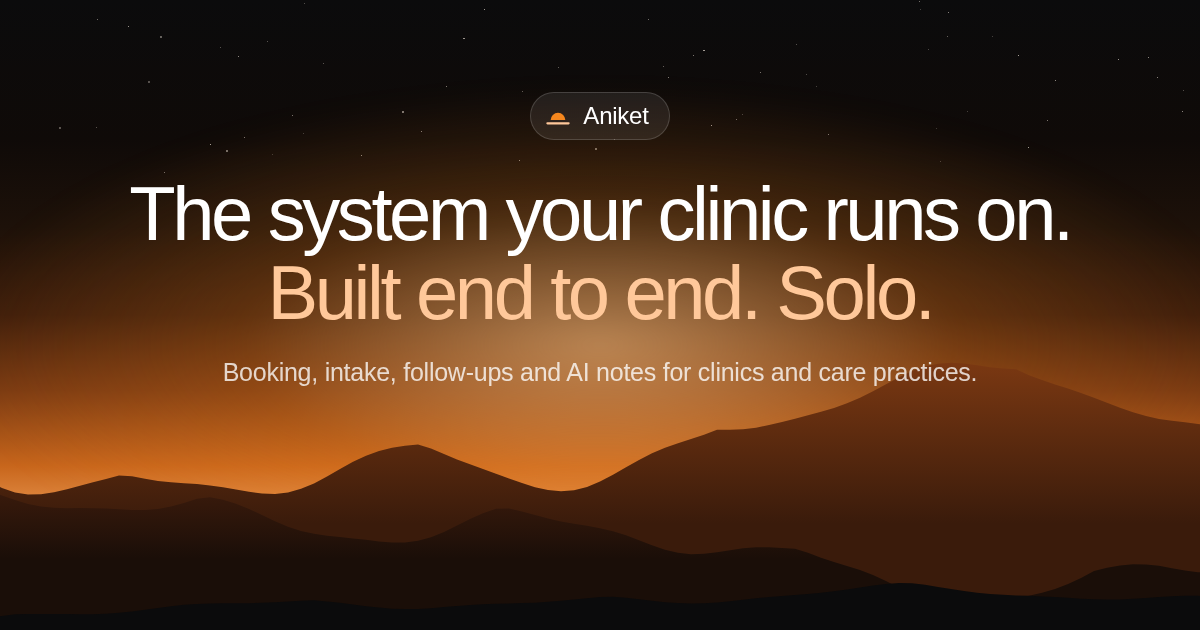
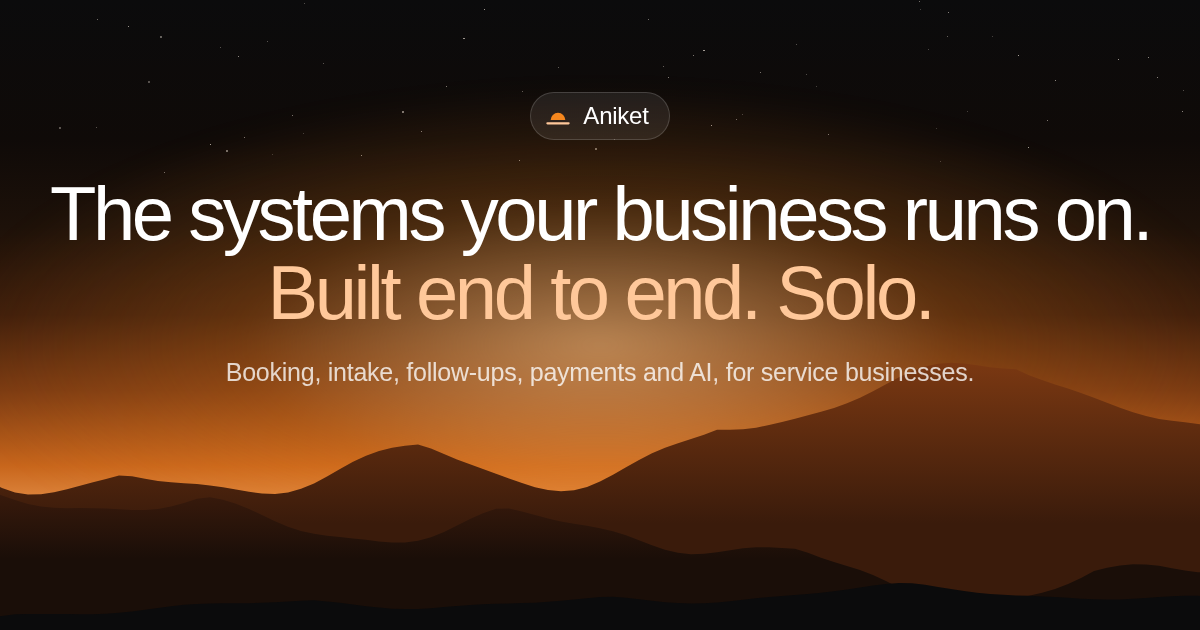
Position for service businesses broadly; clinic system as proof
Hero, subtitle, tagline, meta, OG/Twitter, JSON-LD, contact, about and
case-study CTAs, FAQ and footer now speak to clinics, studios, agencies
and growing teams. The hero proof line names the 11-therapist clinic as
evidence, with its caveat. OG card re-rendered with the new headline.
Also adds Privacy to the footer menu and /privacy to the sitemap.

Changed region(s): [[0.0308, 0.2714, 0.9558, 0.4222], [0.185, 0.573, 0.8325, 0.6333]]

diff --git a/src/data.js b/src/data.js
@@ -202,14 +202,15 @@ export const site = {
      the second button. See components/BookingCta.jsx. */
   bookingUrl: '',
 
-  /* Positioning, in one place. Clinics and care practices first (therapy,
-     physio, wellness, dental), the agencies that serve them second. The
-     hero, the meta description and the OG card all read from here. */
-  headline: ['The system your clinic runs on.', 'Built end to end. Solo.'],
+  /* Positioning, in one place: service businesses broadly (clinics,
+     studios, agencies, growing teams). The clinic system is the proof,
+     not the market. The hero, the meta description, the JSON-LD and the
+     OG card (scripts/render-og.mjs) all read from here. */
+  headline: ['The systems your business runs on.', 'Built end to end. Solo.'],
   subtitle:
-    'Booking, intake, follow-ups and AI notes, built and run by one person, live in weeks. For clinics and care practices, and the agencies that serve them.',
+    'Booking, intake, follow-ups, payments and AI, built and run by one person, live in weeks. For clinics, studios, agencies and growing teams.',
   tagline:
-    'Booking, intake, follow-ups and AI notes for clinics and care practices, built and run by one person, live in weeks.',
+    'Booking, intake, follow-ups, payments and AI for clinics, studios, agencies and growing teams, built and run by one person, live in weeks.',
 
   /* Shown beside the prices. A promise, so it lives with the data it
      qualifies rather than in a component. */
@@ -233,8 +234,8 @@ export const site = {
      makes them awkward to separate by accident. If project 01's outcome
      is ever restated, restate this with it. */
   heroProof: {
-    claim: 'Over twelve hundred client records, eleven therapists, one CRM the clinic runs its day on.',
-    note: 'From a live clinic CRM: the client and therapist counts are row counts from its production database, not an estimate.',
+    claim: 'An 11-therapist clinic runs its day on a system I built.',
+    note: 'The therapist count is a row count from the clinic’s live production database, not an estimate.',
     slug: 'therapist-pwa',
     linkLabel: 'See the system'
   }
@@ -243,13 +244,13 @@ export const site = {
 /* Title, description and share card for index.html. vite.config.js writes
    these into the <head> at build time, together with site.origin. */
 export const seo = {
-  title: 'Clinic systems, built end to end · Aniket',
+  title: 'Business systems, built end to end · Aniket',
   description:
-    'Booking, intake, follow-ups and AI notes for clinics and care practices (therapy, physio, wellness, dental) and the agencies that serve them. Built and run by one person, live in weeks.',
-  ogTitle: 'The system your clinic runs on. Built end to end, solo.',
+    'Booking, intake, follow-ups, payments and AI for clinics, studios, agencies and growing teams. Built and run by one person, live in weeks.',
+  ogTitle: 'The systems your business runs on. Built end to end, solo.',
   ogImage: '/og.png',
   ogImageAlt:
-    'The system your clinic runs on. Built end to end, solo. Aniket builds booking, intake, follow-ups and AI notes for clinics.'
+    'The systems your business runs on. Built end to end, solo. Aniket builds booking, intake, follow-ups, payments and AI for service businesses.'
 }
 
 /*
@@ -269,7 +270,7 @@ export const founder = {
   /* One honest paragraph. Asserts only what the case studies, pricing and
      process on the rest of the site already stand behind. */
   intro:
-    'I build the software clinics and care practices actually run on: booking, intake, follow-ups and AI notes, so the work stops living in WhatsApp threads and spreadsheets. It started with the system an eleven-therapist clinic needed to stop drowning in admin, and it is the same shape of problem in a physio, wellness or dental practice, and for the agencies that serve them. You work with the person who builds it, and you own what ships.',
+    'I build the software service businesses actually run on: booking, intake, follow-ups, payments and AI, so the work stops living in WhatsApp threads and spreadsheets. It started with the system an eleven-therapist clinic needed to stop drowning in admin, and it is the same shape of problem in a studio, an agency or a growing team. You work with the person who builds it, and you own what ships.',
 
   /* Aniket's own story — how he got here, what he did before — is his to
      write. Left empty on purpose rather than invented; the About page
@@ -308,7 +309,7 @@ export const founder = {
      stays out. */
   quickFacts: [
     { label: 'Based', value: 'India · remote worldwide' },
-    { label: 'Focus', value: 'Clinic booking, intake, follow-ups, AI notes' },
+    { label: 'Focus', value: 'Booking, intake, follow-ups, payments, AI' },
     { label: 'Core stack', value: 'React · TypeScript · Node · Postgres · n8n · Claude' },
     { label: 'Availability', value: 'Two new builds a month' }
   ]
@@ -336,7 +337,7 @@ export const testimonials = []
   Unused while `site.whatsapp` is empty — see components/WhatsAppCta.jsx.
 */
 export const whatsappPrefill = {
-  hero: 'Hi Aniket, I saw your site. Can we talk about the bookings at my clinic?',
+  hero: 'Hi Aniket, I saw your site. Can we talk about a system for my business?',
   /* The free-audit entry point (docs/research/06, gap G5) — highest-intent
      top-of-funnel opener, in the buyer's voice. */
   audit:
@@ -1052,7 +1053,7 @@ export const process = [
 export const faq = [
   {
     q: 'How long does a build take?',
-    a: 'An Automation Quick-Win is live in 5 days. An Ops Automation Sprint is live in two weeks. Larger systems (a booking platform, a full clinic operations layer) run three to five weeks depending on how many people and tools they touch.'
+    a: 'An Automation Quick-Win is live in 5 days. An Ops Automation Sprint is live in two weeks. Larger systems (a booking platform, a full operations layer for a clinic, studio or agency) run three to five weeks depending on how many people and tools they touch.'
   },
   {
     q: 'What does it cost?',
@@ -1079,7 +1080,7 @@ export const faq = [
   },
   {
     q: 'Is client data safe?',
-    a: 'Client records stay on your own accounts and servers, and access is checked on the server, not just hidden in the screen. The clinic system on this site keeps its data behind a private service the browser never touches.'
+    a: 'Client records stay on your own accounts and servers, and access is checked on the server, not just hidden in the screen. The Therapist PWA on this site keeps its data behind a private service the browser never touches.'
   }
 ]
 
@@ -1087,7 +1088,8 @@ export const footerMenu = [
   { label: 'Home', to: '/' },
   { label: 'Projects', to: '/projects' },
   { label: 'About', to: '/about' },
-  { label: 'Get in touch', to: '/contact' }
+  { label: 'Get in touch', to: '/contact' },
+  { label: 'Privacy', to: '/privacy' }
 ]
 
 /* Set `href` to go live. Empty entries are skipped, not rendered dead. */

diff --git a/vite.config.js b/vite.config.js
@@ -27,14 +27,14 @@ function jsonLd() {
         '@id': abs('/#person'),
         name: 'Aniket',
         url: abs('/'),
-        jobTitle: 'Systems builder for clinics and care practices',
+        jobTitle: 'Digital systems builder for service businesses',
         description: site.subtitle,
         address: { '@type': 'PostalAddress', addressCountry: 'IN' },
         knowsAbout: [
-          'Clinic operations software',
           'Booking and scheduling systems',
           'Client intake and consent workflows',
-          'AI clinical note drafting',
+          'Payments integration',
+          'AI assistants and document drafting',
           'Operations automation',
           'Internal tools and dashboards',
           'n8n',
@@ -47,7 +47,7 @@ function jsonLd() {
       {
         '@type': 'ProfessionalService',
         '@id': abs('/#service'),
-        name: 'Aniket · Systems for clinics and care practices',
+        name: 'Aniket · Digital Systems Builder',
         url: abs('/'),
         image: abs(seo.ogImage),
         description: seo.description,
@@ -76,7 +76,7 @@ function jsonLd() {
   return JSON.stringify(graph).replace(/</g, '\\u003c')
 }
 
-const routes = ['/', '/projects', '/about', '/contact', ...projects.map((p) => `/projects/${p.slug}`)]
+const routes = ['/', '/projects', '/about', '/contact', '/privacy', ...projects.map((p) => `/projects/${p.slug}`)]
 
 function sitemap() {
   const today = new Date().toISOString().slice(0, 10)

diff --git a/src/pages/ContactPage.jsx b/src/pages/ContactPage.jsx
@@ -40,11 +40,11 @@ export default function ContactPage() {
           <h1 className="page-title">Tell me which part is breaking</h1>
         </div>
         <p className="page-lede">
-          I build the systems clinics and care practices run on: booking,
-          intake, follow-ups and AI notes, for therapy, physio, wellness and
-          dental practices, and the agencies that serve them. If yours are
-          running on WhatsApp threads, spreadsheets and copy-paste, tell me the
-          one that eats the most time. That is enough to start.
+          I build the systems service businesses run on: booking, intake,
+          follow-ups, payments and AI, for clinics, studios, agencies and
+          growing teams. If yours are running on WhatsApp threads,
+          spreadsheets and copy-paste, tell me the one that eats the most
+          time. That is enough to start.
         </p>
       </div>
 

diff --git a/src/pages/ProjectDetailPage.jsx b/src/pages/ProjectDetailPage.jsx
@@ -374,10 +374,10 @@ export default function ProjectDetailPage() {
       )}
 
       <section className="case-cta">
-        <h2 className="case-cta-title">Want this running in your practice?</h2>
+        <h2 className="case-cta-title">Want this running in your business?</h2>
         <p className="case-cta-body">
           Tell me which part of your week is still on WhatsApp threads and
-          spreadsheets: bookings, intake, follow-ups or notes. In 15 minutes I will
+          spreadsheets: bookings, intake, follow-ups or payments. In 15 minutes I will
           tell you what automating it would take, what it costs and the date it goes
           live.
         </p>

diff --git a/src/pages/AboutPage.jsx b/src/pages/AboutPage.jsx
@@ -91,8 +91,8 @@ export default function AboutPage() {
       <div className="about-cta">
         <h2 className="about-cta-title">Tell me which part is breaking.</h2>
         <p className="about-cta-body">
-          {site.availability} If your clinic&rsquo;s bookings, intake,
-          follow-ups or notes are running on WhatsApp threads and
+          {site.availability} If your business&rsquo;s bookings, intake,
+          follow-ups or payments are running on WhatsApp threads and
           spreadsheets, that&rsquo;s the conversation to start.
         </p>
         <div className="about-cta-actions">

diff --git a/src/components/Footer.jsx b/src/components/Footer.jsx
@@ -24,8 +24,8 @@ export default function Footer() {
             Good systems should feel like less work, not more software.
           </p>
           <p className="footer-desc">
-            I build the systems clinics and care practices run on: booking,
-            intake, follow-ups and AI notes, in one place instead of across
+            I build the systems service businesses run on: booking, intake,
+            follow-ups, payments and AI, in one place instead of across
             WhatsApp threads and spreadsheets.
           </p>
           <div className="footer-actions">

diff --git a/src/pages/home/Services.jsx b/src/pages/home/Services.jsx
@@ -33,7 +33,7 @@ export default function Services() {
     <section className="paper services" id="services">
       <div className="container">
         <m.header className="center-head" {...reveal}>
-          <PillLabel icon="rupee">Services</PillLabel>
+          <PillLabel icon="chart">Services</PillLabel>
           <h2 className="h2">
             Fixed scope. Fixed price.
             <br />

diff --git a/src/pages/home/Statement.jsx b/src/pages/home/Statement.jsx
@@ -20,7 +20,7 @@ export default function Statement() {
         <ScrollWords
           className="statement-text"
           parts={[
-            'Most clinics and care practices run on',
+            'Most service businesses run on',
             { icon: 'whatsapp' },
             'WhatsApp threads,',
             { icon: 'sheet' },
